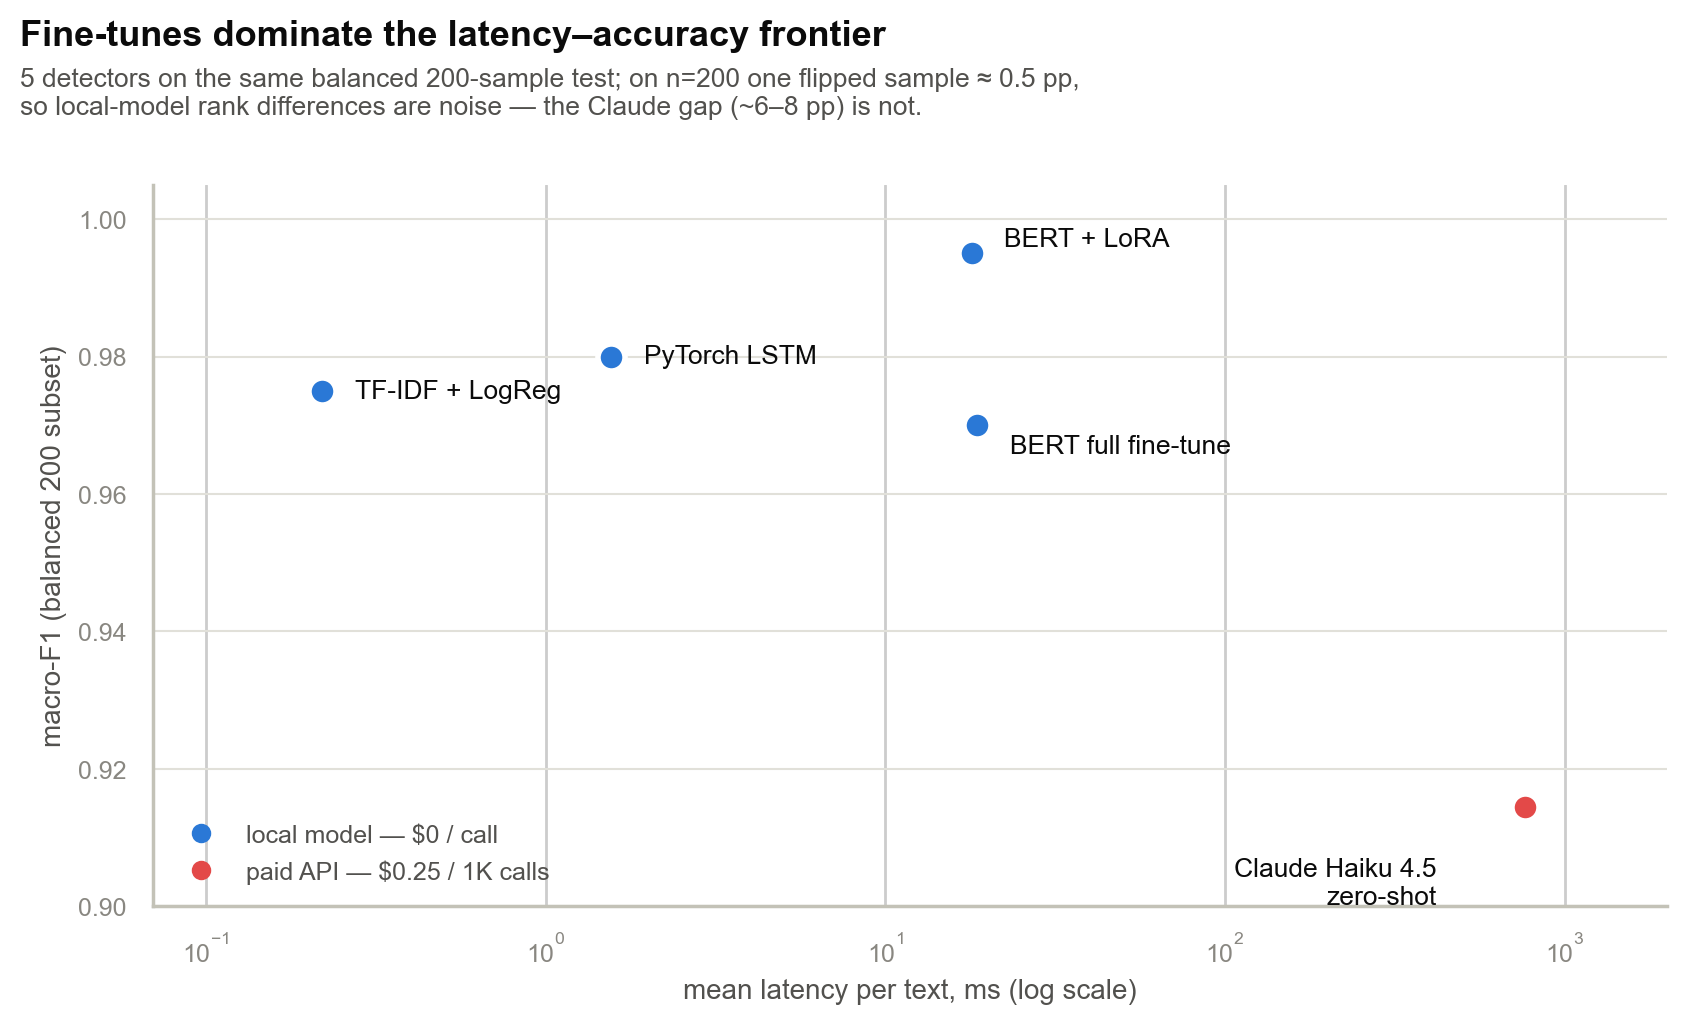
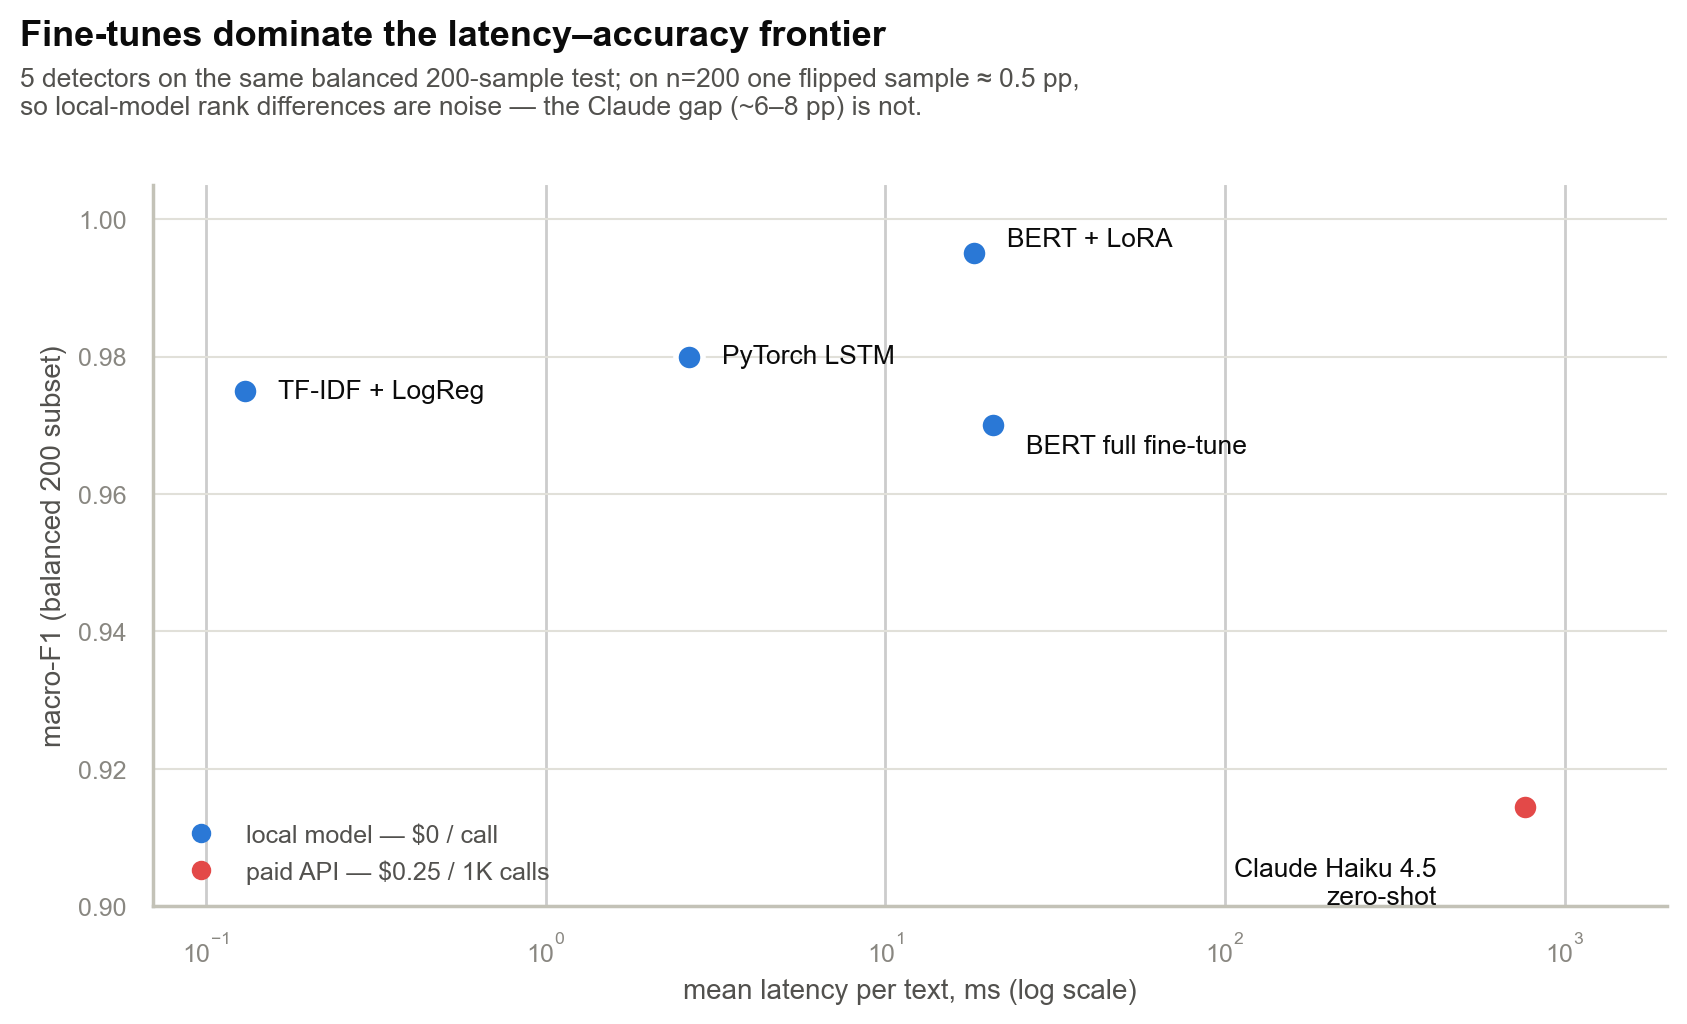
NB4: reuse §4's BERT predictions in §6 error analysis (drop redundant re-predict); fresh Restart & Run All
- §6 disagreement cell now reuses bert_p instead of re-running bert_predict(X_sub);
  deterministic inference, so all F1s, disagreements (17) and error CSVs are unchanged
- model_comparison.csv + frontier figure refreshed: only local-model latency jitter
  (BERT 18.66 -> 20.79 ms); README latency mentions synced (~19 -> ~21 ms)
- drop private Blueprint section reference from §6 markdown

diff --git a/README.md b/README.md
@@ -29,8 +29,8 @@ paid LLM on identical footing):
 | Model | Macro-F1 | AI-recall | AI-precision | Latency | Cost / 1K |
 |---|---|---|---|---|---|
 | TF-IDF + LogReg | 0.975 | 0.97 | 0.98 | <1 ms | $0 |
-| PyTorch LSTM | 0.980 | 0.97 | 0.99 | ~2 ms | $0 |
-| BERT full fine-tune | 0.970 | 0.98 | 0.96 | ~19 ms | $0 |
+| PyTorch LSTM | 0.980 | 0.97 | 0.99 | ~3 ms | $0 |
+| BERT full fine-tune | 0.970 | 0.98 | 0.96 | ~21 ms | $0 |
 | BERT + LoRA | 0.995 | 0.99 | 1.00 | ~18 ms | $0 |
 | Claude Haiku 4.5 zero-shot | 0.914 | **1.00** | **0.85** | ~760 ms | $0.25 |
 
@@ -41,10 +41,10 @@ paid LLM on identical footing):
 > comparison**: the zero-shot LLM catches every AI text (recall 1.00) but false-flags humans
 > (precision 0.85), and loses to a $0-marginal fine-tune by ~8 pp.
 
-![Latency vs macro-F1: the four local models cluster at 0.97–0.995 F1 under 20 ms; zero-shot Claude sits at 0.914 F1 and 761 ms](results/figs/latency_f1_frontier.png)
+![Latency vs macro-F1: the four local models cluster at 0.97–0.995 F1 within ~21 ms; zero-shot Claude sits at 0.914 F1 and 761 ms](results/figs/latency_f1_frontier.png)
 
 **Three findings:**
-1. **Fine-tuning still wins in-domain (2026):** a 110M BERT at ~20 ms/$0 beats zero-shot
+1. **Fine-tuning still wins in-domain (2026):** a 110M BERT at ~21 ms/$0 beats zero-shot
    Claude Haiku by ~8 pp.
 2. **The detector transfers across domains — because it isn't detecting "AI-ness":** the
    expected cross-domain collapse didn't happen (−1.2 pp); the model tracks the *generator's
